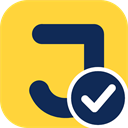
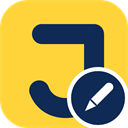
feat(neis-fill): 과목 대조(도우미 복사 글에 과목·학기 표시줄, 나이스 조건 줄 읽기), 열 이름 진단, 제목 대체 찾기, 펜 배지 아이콘

Changed region(s): [[0.625, 0.625, 0.9062, 0.9062]]

diff --git a/classtools/neis-fill/mock.html b/classtools/neis-fill/mock.html
@@ -14,11 +14,21 @@
         .r textarea { width: 600px; height: 64px; }
         .other { display: none; }
         .panel { margin-top: 10px; white-space: pre-wrap; font-family: monospace; font-size: 12px; }
+        .cond label { white-space: nowrap; flex: 0 0 auto; }   /* 나이스처럼 이름표와 입력 칸이 한 줄에 놓인다 */
     </style>
 </head>
 <body>
     <div class="top"><b>서울계상초등학교</b> <span>박화송</span> <span id="mode"></span></div>
-    <div class="app-tit"><span class="cl-text" id="title">학기말종합의견</span></div>
+    <div class="app-tit" id="title-wrap"><span class="cl-text" id="title">학기말종합의견</span></div>
+    <!-- 조건 줄: 나이스처럼 이름표(빨간 * 는 딴 요소) 오른쪽에 읽기 전용 입력 칸. 확장이 여기서 과목·학기를 읽는다. -->
+    <div class="cond" style="display:flex; gap:18px; align-items:center; background:#f3f4f8; padding:8px; margin-bottom:8px;">
+        <label><span style="color:#c00">*</span><span>학년도</span> <input value="2026" readonly size="6"></label>
+        <label><span style="color:#c00">*</span><span>학기</span> <input value="2" readonly size="3"></label>
+        <label><span style="color:#c00">*</span><span>학년</span> <input value="6" readonly size="3"></label>
+        <label><span style="color:#c00">*</span><span>반</span> <input value="2" readonly size="3"></label>
+        <label><span style="color:#c00">*</span><span>교과(목)</span> <span role="combobox" style="display:inline-block; border:1px solid #aaa;"><input id="subject" value="국어" readonly size="8" style="border:0"></span></label>
+        <button type="button">조회</button>
+    </div>
     <div class="grid" id="grid"></div>
     <div role="tablist" style="margin-top:6px; font-size:12px; color:#666;"><span role="tab">초기화면</span> · <span role="tab">교과학습발달상황</span> · <span role="tab">교과평가</span> · <span role="tab">학기말종합의견</span></div>
     <!-- 다른 탭(숨겨진 화면)의 글 칸: 채우면 안 된다 -->
@@ -38,6 +48,14 @@
         const noBlur = params.get('noblur') === '1';       // 화면 값을 실행기가 받아들이지 않는 경우
         const dupMode = params.get('dup') === '1';         // 번호를 '3번' 꼴로 적어 못 읽게 함(동명이인 보호 시험)
         if (params.get('title')) document.getElementById('title').textContent = params.get('title');
+        if (params.get('subject')) document.getElementById('subject').value = params.get('subject');   // 화면 과목을 바꿔 과목 대조 시험
+        if (params.get('notitle') === '1') {
+            // 머리글 선택자에 안 걸리는 판: 클래스 없이 큼직한 글씨만. 확장의 글씨 크기 대체 찾기를 시험한다.
+            const w = document.getElementById('title-wrap');
+            w.className = '';
+            document.getElementById('title').className = '';
+            w.style.cssText = 'font-size:18px; font-weight:bold; margin:6px 0;';
+        }
         document.getElementById('mode').textContent = (virtual ? '(보이는 줄만 그림' : '(전부 그림') + (withCpr ? ', 실행기 흉내' : '') + (editOnly ? ', 첫 줄만 글 칸' : '') + (noBlur ? ', blur 무시' : '') + (dupMode ? ', 번호 못 읽음' : '') + ')';
         const grid = document.getElementById('grid');
 
